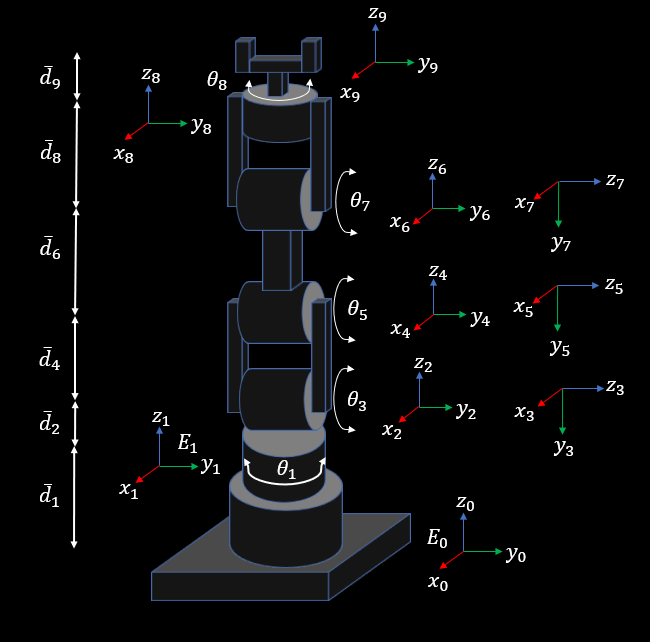
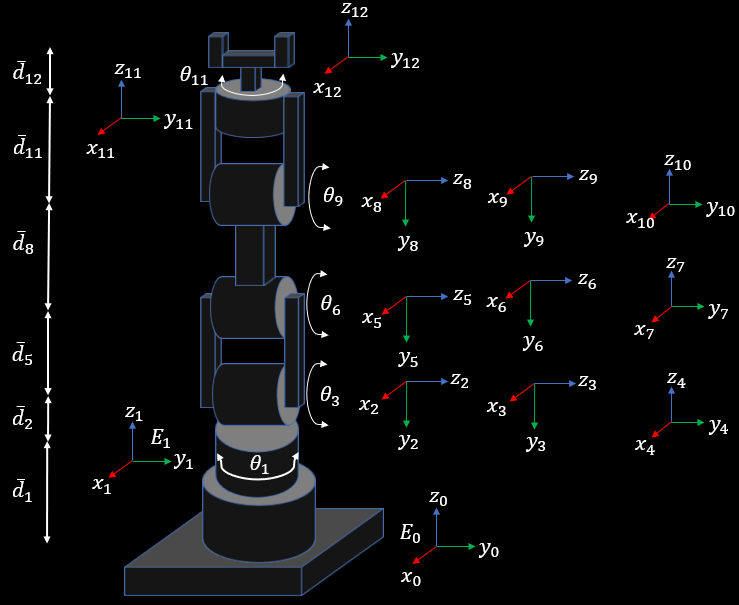
Create matlab app for robot control

diff --git a/createRobot.m b/createRobot.m
@@ -1,44 +1,24 @@
-%{
-Robot controller script
-
-Author: Marco Medrano
-Date: 27/03/22
-%}
-
-clear; close all; clc;
-
-%% Send messages to esp32 robot controller over http requests
-%{
-import matlab.net.*
-import matlab.net.http.*
-r = RequestMessage;
-uri = URI('http://192.168.100.9/?joint=1&value=120&');
-resp = send(r,uri);
-%}
-
+function robot = createRobot()
 D1 = 0.734;
 D2 = 0.1783;
-D6 = 1.02;
-D10 = 1.29;
-D14 = 0.584;
-D15 = 0.11;
+D5 = 1.02;
+D8 = 1.29;
+D11 = 0.584;
+D12 = 0.11;
 
 %% Create rigid body model for the robot
 dhparams = [0 0 D1 0;
-            0 0 D2 0;
-            0 -pi/2 0 0;
+            0 -pi/2 D2 0;
             0 0 0 0;
             0 pi/2 0 0;
-            0 0 D6 0;
-            0 -pi/2 0 0;
+            0 -pi/2 D5 0;
             0 0 0 0;
             0 pi/2 0 0;
-            0 0 D10 0;
-            0 -pi/2 0 0;
+            0 -pi/2 D8 0;
             0 0 0 0;
             0 pi/2 0 0;
-            0 0 D14 0;
-            0 0 D15 0];
+            0 0 D11 0;
+            0 0 D12 0];
 robot = rigidBodyTree('Dataformat','row');
 body1 = rigidBody('body1');
 jnt1 = rigidBodyJoint('jnt1','revolute');
@@ -49,46 +29,37 @@ body1.Joint = jnt1;
 addBody(robot,body1,'base')
 body2 = rigidBody('body2');
 jnt2 = rigidBodyJoint('jnt2','revolute');
-jnt2.PositionLimits=[-pi/2 pi/2];
+jnt2.PositionLimits=[0 0];
 body3 = rigidBody('body3');
 jnt3 = rigidBodyJoint('jnt3','revolute');
 jnt3.PositionLimits=[-pi/2 pi/2];
 body4 = rigidBody('body4');
 jnt4 = rigidBodyJoint('jnt4','revolute');
-jnt4.PositionLimits=[-pi/2 pi/2];
+jnt4.PositionLimits=[0 0];
 body5 = rigidBody('body5');
 jnt5 = rigidBodyJoint('jnt5','revolute');
-jnt5.PositionLimits=[-pi/2 pi/2];
+jnt5.PositionLimits=[0 0];
 body6 = rigidBody('body6');
 jnt6 = rigidBodyJoint('jnt6','revolute');
 jnt6.PositionLimits=[-pi/2 pi/2];
 body7 = rigidBody('body7');
 jnt7 = rigidBodyJoint('jnt7','revolute');
-jnt7.PositionLimits=[-pi/2 pi/2];
+jnt7.PositionLimits=[0 0];
 body8 = rigidBody('body8');
 jnt8 = rigidBodyJoint('jnt8','revolute');
-jnt8.PositionLimits=[-pi/2 pi/2];
+jnt8.PositionLimits=[0 0];
 body9 = rigidBody('body9');
 jnt9 = rigidBodyJoint('jnt9','revolute');
 jnt9.PositionLimits=[-pi/2 pi/2];
 body10 = rigidBody('body10');
 jnt10 = rigidBodyJoint('jnt10','revolute');
-jnt10.PositionLimits=[-pi/2 pi/2];
+jnt10.PositionLimits=[0 0];
 body11 = rigidBody('body11');
 jnt11 = rigidBodyJoint('jnt11','revolute');
 jnt11.PositionLimits=[-pi/2 pi/2];
-body12 = rigidBody('body12');
-jnt12 = rigidBodyJoint('jnt12','revolute');
-jnt12.PositionLimits=[-pi/2 pi/2];
-body13 = rigidBody('body13');
-jnt13 = rigidBodyJoint('jnt13','revolute');
-jnt13.PositionLimits=[-pi/2 pi/2];
-body14 = rigidBody('body14');
-jnt14 = rigidBodyJoint('jnt14','revolute');
-jnt14.PositionLimits=[-pi/2 pi/2];
-body15 = rigidBody('EndEffector_Link');
-jnt15 = rigidBodyJoint('EndEffector','revolute');
-jnt15.PositionLimits=[-pi/2 pi/2];
+body12 = rigidBody('EndEffector_Link');
+jnt12 = rigidBodyJoint('EndEffector','revolute');
+jnt12.PositionLimits=[0 0];
 
 setFixedTransform(jnt2,dhparams(2,:),'dh');
 setFixedTransform(jnt3,dhparams(3,:),'dh');
@@ -101,9 +72,6 @@ setFixedTransform(jnt9,dhparams(9,:),'dh');
 setFixedTransform(jnt10,dhparams(10,:),'dh');
 setFixedTransform(jnt11,dhparams(11,:),'dh');
 setFixedTransform(jnt12,dhparams(12,:),'dh');
-setFixedTransform(jnt13,dhparams(13,:),'dh');
-setFixedTransform(jnt14,dhparams(14,:),'dh');
-setFixedTransform(jnt15,dhparams(15,:),'dh');
 
 body2.Joint = jnt2;
 body3.Joint = jnt3;
@@ -116,9 +84,6 @@ body9.Joint = jnt9;
 body10.Joint = jnt10;
 body11.Joint = jnt11;
 body12.Joint = jnt12;
-body13.Joint = jnt13;
-body14.Joint = jnt14;
-body15.Joint = jnt15;
 
 addBody(robot,body2,'body1')
 addBody(robot,body3,'body2')
@@ -131,16 +96,7 @@ addBody(robot,body9,'body8')
 addBody(robot,body10,'body9')
 addBody(robot,body11,'body10')
 addBody(robot,body12,'body11')
-addBody(robot,body13,'body12')
-addBody(robot,body14,'body13')
-addBody(robot,body15,'body14')
-%showdetails(robot)
-%show(robot);
-%axis([-15,15,-15,15,-15,15])
-%figure("Name","Interactive GUI")
-%gui = interactiveRigidBodyTree(robot,"MarkerScaleFactor",0.25);
 
-currentRobotJConfig = homeConfiguration(robot);
-numJoints = numel(currentRobotJConfig);
-endEffector = "EndEffector_Link";
+
+end
 

diff --git a/interpolationJointAngles.m b/interpolationJointAngles.m
@@ -1,0 +1,26 @@
+function jointWaypoints = interpolationJointAngles(currentAngles,desiredAngles, ...
+    currentTMatrix, desiredTMatrix)
+%UNTITLED4 Summary of this function goes here
+%   Detailed explanation goes here
+
+
+currentAngles = [currentAngles(2) currentAngles(4) currentAngles(7) ...
+    currentAngles(12) currentAngles(14)];
+
+desiredAngles = [desiredAngles(2) desiredAngles(4) desiredAngles(7) ...
+    desiredAngles(12) desiredAngles(14)];
+
+timeStep = 0.1; % seconds
+toolSpeed = 0.1; % m/s
+
+distance = norm(tform2trvec(currentTMatrix)-tform2trvec(desiredTMatrix));
+initTime = 0;
+finalTime = (distance/toolSpeed) - initTime;
+trajTimes = initTime:timeStep:finalTime;
+timeInterval = [trajTimes(1); trajTimes(end)];
+
+ctrlpoints = [currentAngles', desiredAngles'];
+jointConfigArray = cubicpolytraj(ctrlpoints,timeInterval,trajTimes);
+jointWaypoints = bsplinepolytraj(jointConfigArray,timeInterval,1);
+end
+

diff --git a/robot_kinematic_model.m b/robot_kinematic_model.m
@@ -1,4 +1,4 @@
-clear; close all; clc;
+%clear; close all; clc;
 
 syms t1 t3 t5 t7 t8
 
@@ -32,4 +32,17 @@ A15 = trans([0 0 D15]);
 
 T_0_9 = A1*A2*A3*A4*A5*A6*A7*A8*A9*A10*A11*A12*A13*A14*A15;
 
+B1 = r_z(t1)*trans([0 0 D1]);
+B2 = trans([0 0 D2])*r_x(-90);
+B3 = r_z(t3);
+B4 = r_x(90);
+B5 = trans([0 0 D6])*r_x(-90);
+B6 = r_z(t5);
+B7 = r_x(90);
+B8 = trans([0 0 D10]) * r_x(-90);
+B9 = r_z(t7);
+B10 = r_x(90);
+B11 = trans([0 0 D14])*r_z(t8);
+B12 = trans([0 0 D15]);
 
+T_0_12 = B1*B2*B3*B4*B5*B6*B7*B8*B9*B10*B11*B12;

diff --git a/robotInverseKinematics.m b/robotInverseKinematics.m
@@ -1,0 +1,11 @@
+function [configSoln, solnInfo] = robotInverseKinematics(robot, tform)
+
+
+%% Compute inverse kinematics
+ik = inverseKinematics('RigidBodyTree',robot);
+weights = [0.25 0.25 0.25 1 1 1];
+initialguess = robot.homeConfiguration;
+[configSoln,solnInfo] = ik('EndEffector_Link',tform,weights,initialguess);
+configSoln = wrapToPi(configSoln);
+end
+
